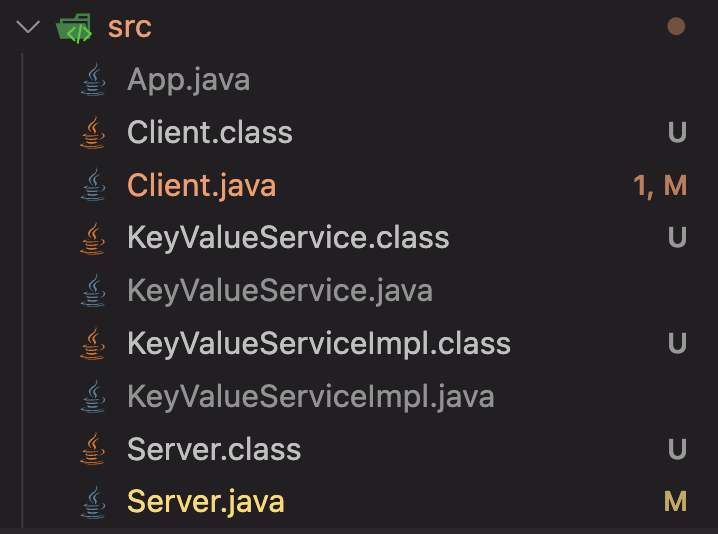
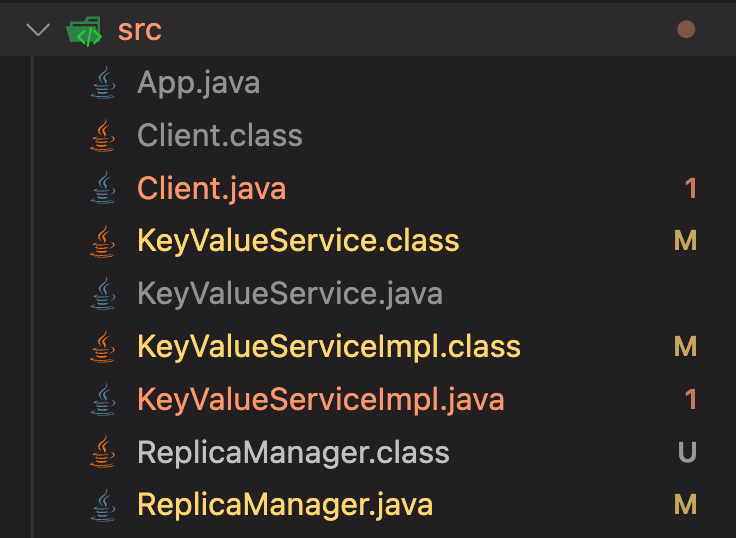
update p3

diff --git a/P3/src/ReplicaManager.java b/P3/src/ReplicaManager.java
@@ -49,7 +49,7 @@ public class ReplicaManager {
     }
 
     public static void main(String[] args) throws Exception {
-        int[] replicaAddresses = { 8899, 8900, 8901, 8902 };
+        int[] replicaAddresses = { 8898, 8899, 8900, 8901, 8902 };
         ReplicaManager rm = new ReplicaManager(replicaAddresses);
         System.out.println(rm);
         System.out.println("successfully created 5 instance");

diff --git a/P3/README.md b/P3/README.md
@@ -2,13 +2,14 @@
 
 This is a simple key-value pair server and client system implemented using Remote Method Invocation (RMI) in Java. The system allows the client to perform CRUD (Create, Read, Update, Delete) operations on a key-value store by communicating with the server through RMI.
 
-##Components
+## Components
 
 The system consists of two components:
 
-1. Server: This component provides the RMI service implementation of the key-value store. It receives requests from the client and performs the corresponding CRUD operation on the key-value store.
+1. ReplicaManager: Sets up a number of KeyValueService replicas and registers them with a Java RMI registry.
 
-2. Client: This component provides a command-line interface for the user to interact with the key-value store. The user can enter "put", "get", or "delete" to perform the corresponding operation, or "quit" to exit the system.
+2. KeyValueService: This component provides the RMI service implementation of the key-value store. It receives requests from the client and performs the corresponding 2-Pharse commit operation on the key-value store.
+3. Client: This component provides a command-line interface for the user to interact with the key-value store. The user can enter "put", "get", or "delete" to perform the corresponding operation, or "quit" to exit the system.
 
 ## Code
 
@@ -16,9 +17,9 @@ The server and client code are provided in separate Java classes as follows:
 
 1. `KeyValueService`: This is the RMI service interface that defines the methods for performing CRUD operations on the key-value store.
 
-2. `KeyValueServiceImpl`: This is the implementation of the `KeyValueService` interface. It provides a thread-safe implementation of the key-value store using a hashmap and a thread pool.
+2. `KeyValueServiceImpl`: This is the implementation of the `KeyValueService` interface. The key-value store uses a two-phase commit protocol to ensure consistency across replica nodes. When a client issues a put or delete command, the receiving replica node enters a "prepare" phase, in which it sends prepare messages to all other replica nodes to ensure they are ready to commit the update. If all replicas respond with an "OK" message, the replica node enters a "commit" phase, in which it sends commit messages to all other replica nodes to instruct them to commit the update.
 
-3. `Server`: This is the main class for the server component. It exports the `KeyValueServiceImpl` as an RMI service, registers it with the RMI registry, and makes it available to the client.
+3. `ReplicaManager`:The ReplicaManager class sets up multiple KeyValueService replica nodes on different ports, and registers them with a Java RMI registry. The Client class connects to one of the replica nodes and sends commands to it using the KeyValueService RMI interface.
 
 4. `Client`: This is the main class for the client component. It uses the RMI registry to look up the `KeyValueService` RMI service implementation and provides a simple command-line interface to allow the user to perform CRUD operations on the key-value store.
 
@@ -27,24 +28,26 @@ The server and client code are provided in separate Java classes as follows:
 To use the system, follow these steps:
 
 1. Compile the server and client code using the Java compiler.
-   `javac Server.java`
+   `javac ReplicaManager.java`
+   `javac KeyValueService.java`
+   `javac KeyValueServiceImpl.java`
    `javac Client.java`
    ![img](img/p1.png)
 
-2. Start the server by running the Server class. I added some preperation case in it.
-   `java Server <portnumber>`
+2. Start the 5 replica server by running the ReplicaManager class. I added some preperation case in it.
+   `java ReplicaManager `
    ![img](img/p5.png)
 
    ![img](img/p2.png)
 
-3. Start the client by running the Client class. You can open up to 10 Client.
+3. Start the client by running the Client class. The port number you can choose includes 8898,8899,8900,8901,8902 .
    `java Client <portnumber>`
 
    ![img](img/p3.png)
    ![img](img/p4.png)
 
-4. Follow the instructions on the command-line interface to perform CRUD operations on the key-value store.
+4. Follow the instructions on the command-line interface to perform 2-Phase Commit operations on the key-value store.
 
 ## Conclusion
 
-This key-value pair server and client system using RMI provides a basic implementation of a distributed key-value store that can be accessed remotely by a client. The system is thread-safe, and the server can handle multiple requests from multiple clients concurrently. However, this implementation does not provide any data persistence, and the key-value store will be lost if the server is shut down.
+This key-value pair server and client system using RMI provides a basic implementation of a distributed key-value store that using 2 Phase Commit. The system is thread-safe, and the server can handle multiple requests from multiple clients concurrently. However, this implementation does not provide any data persistence, and the key-value store will be lost if the server is shut down.
